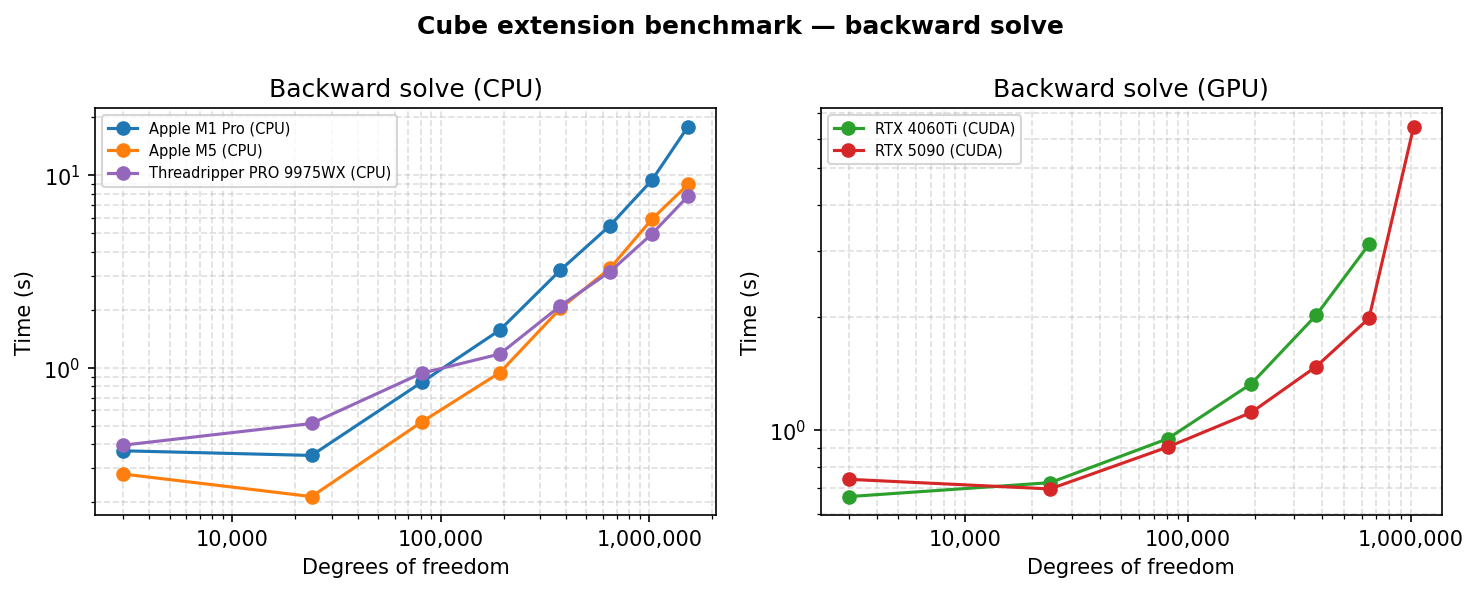
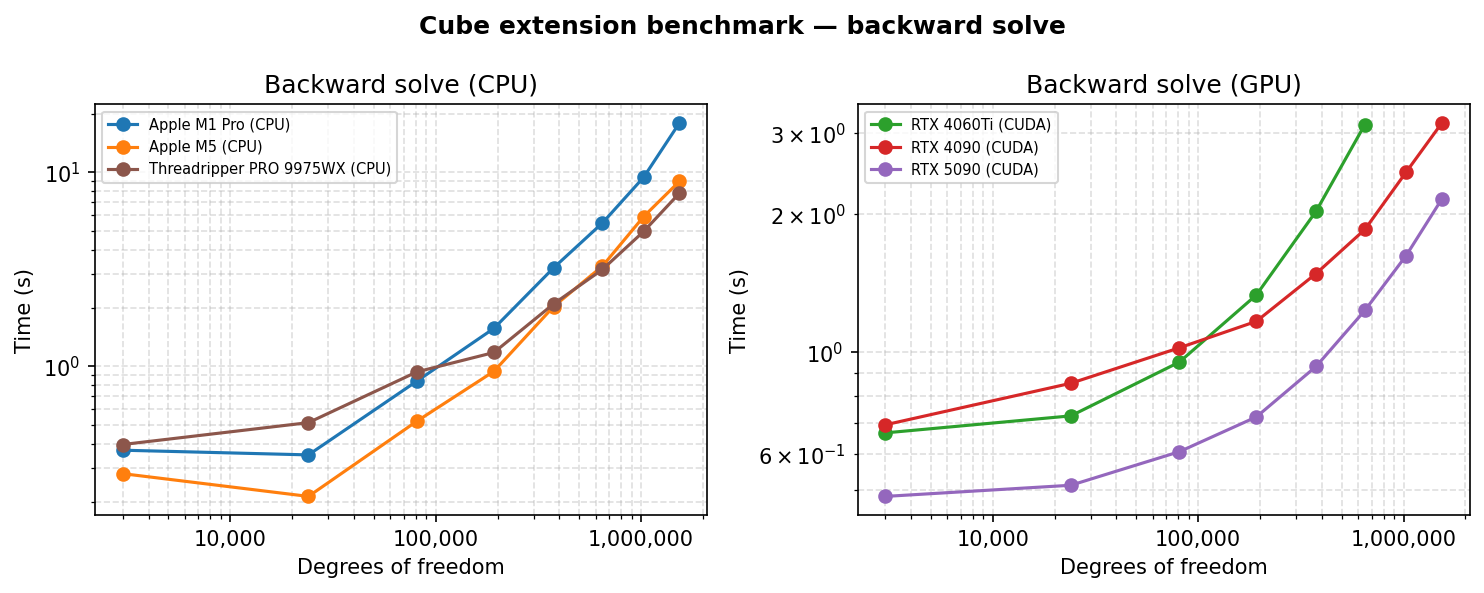
Update benchmark

diff --git a/README.md b/README.md
@@ -195,19 +195,19 @@ Python 3.10, SciPy 1.15.3, Apple Accelerate, float64
 |  80 |  1536000 |    13.90s |    73.41s |    17.95s |   9739.0MB |
 
 
-#### NVIDIA GeForce RTX 5090 (21,760 Cuda cores, 32 GB VRAM)
-Python 3.13, CuPy 14.0.1, CUDA 12.9, float64
+#### NVIDIA GeForce RTX 4090 (16,384 Cuda cores, 24 GB VRAM)
+Python 3.12, CuPy 13.3.0, CUDA 11.8, float64
 
-|  N  |     DOFs |     Setup | FWD Solve | BWD Solve |   Peak RAM |
+|  N  |     DOFs |     Setup | FWD Solve | BWD Solve |  Peak VRAM |
 | --- | -------- | --------- | --------- | --------- | ---------- |
-|  10 |     3000 |     0.27s |     0.45s |     0.46s |   1682.9MB |
-|  20 |    24000 |     0.24s |     0.49s |     0.49s |   1703.6MB |
-|  30 |    81000 |     0.25s |     0.60s |     0.59s |   1707.4MB |
-|  40 |   192000 |     0.25s |     0.78s |     0.73s |   1738.4MB |
-|  50 |   375000 |     0.28s |     1.08s |     0.94s |   1710.4MB |
-|  60 |   648000 |     0.32s |     1.54s |     1.27s |   1710.8MB |
-|  70 |  1029000 |     0.39s |     2.13s |     1.73s |   1728.7MB |
-|  80 |  1536000 |     0.49s |     3.76s |     3.22s |   2220.5MB |
+|  10 |     3000 |     0.12s |     0.87s |     0.69s |    234.0MB |
+|  20 |    24000 |     0.11s |     0.94s |     0.85s |    398.0MB |
+|  30 |    81000 |     0.12s |     1.00s |     1.02s |   1158.0MB |
+|  40 |   192000 |     0.14s |     1.23s |     1.17s |   2388.0MB |
+|  50 |   375000 |     0.18s |     1.60s |     1.48s |   4656.0MB |
+|  60 |   648000 |     0.22s |     2.12s |     1.85s |   8624.0MB |
+|  70 |  1029000 |     0.29s |     2.88s |     2.47s |  14046.0MB |
+|  80 |  1536000 |     0.39s |     3.90s |     3.16s |  21246.0MB |
 
 ## Alternatives
 There are many alternative Python FEM tools that you may also consider, 